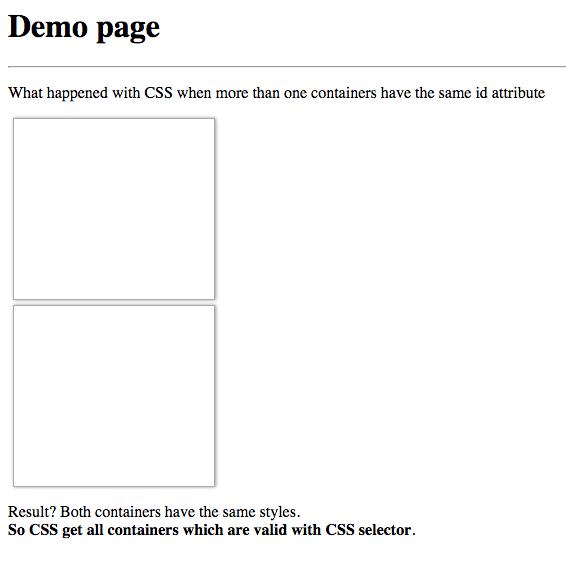
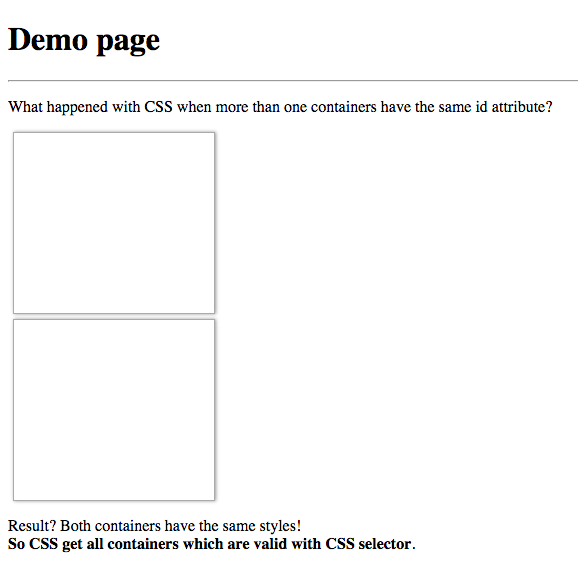
Add question mark

Changed region(s): [[0.0, 0.1496, 0.9611, 0.9577], [0.0, 0.0299, 0.3004, 0.1197]]

diff --git a/demo/index.html b/demo/index.html
@@ -1,3 +1,4 @@
+<!DOCTYPE html>
 <style>
     #test {
         width: 200px;
@@ -10,12 +11,12 @@
 
 <h1>Demo page</h1>
 <hr>
-<p>What happened with CSS when more than one containers have the same id attribute</p>
+<p>What happened with CSS when more than one containers have the same id attribute?</p>
 
 <div id="test"></div>
 <div id="test"></div>
 
 <p>
-    Result? Both containers have the same styles.<br/>
+    Result? Both containers have the same styles!<br/>
     <strong>So CSS get all containers which are valid with CSS selector</strong>.
 </p>
